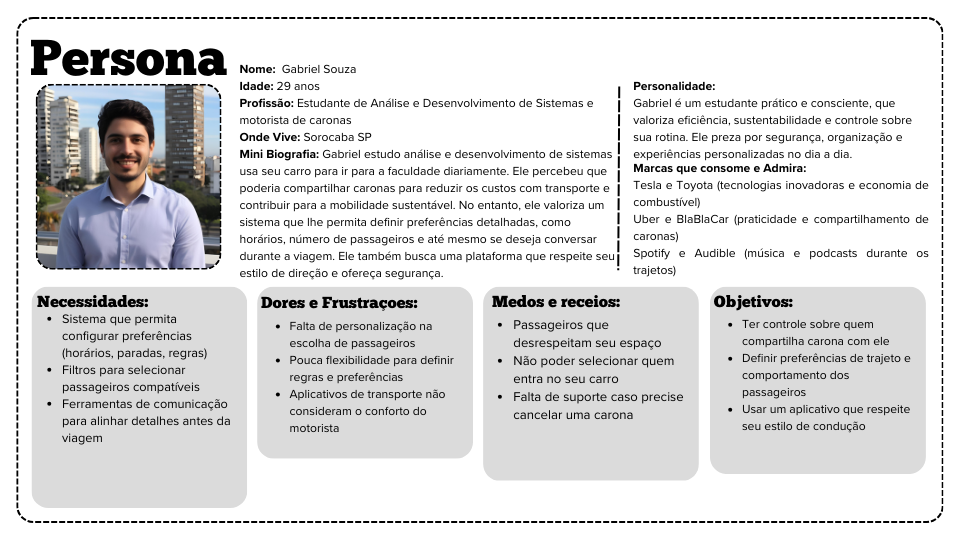
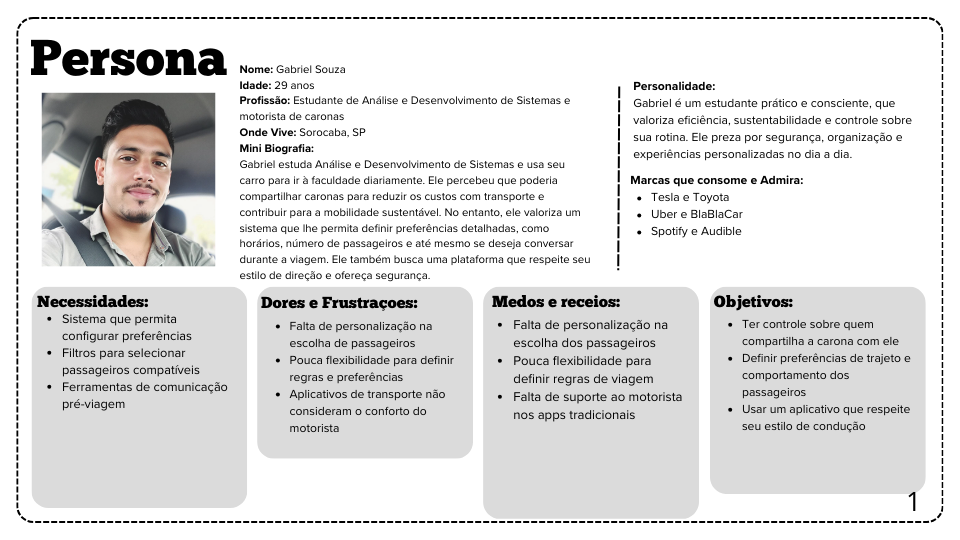
Update: Personas em Templates Coloquei as Personas criadas nos templates que o professor havia fornecido

diff --git a/Documentos/Personas-e-User-Stories.md b/Documentos/Personas-e-User-Stories.md
@@ -1,150 +1,9 @@
 # **Personas:**
 
-## 👤 Motorista 1: Gabriel Souza
-
-**Nome:** Gabriel Souza  
-**Idade:** 29 anos  
-**Profissão:** Estudante de Análise e Desenvolvimento de Sistemas e motorista de caronas  
-**Onde vive:** Sorocaba SP  
-
-**Mini biografia:**  
-Gabriel estuda Análise e Desenvolvimento de Sistemas e usa seu carro para ir à faculdade diariamente. Ele percebeu que poderia compartilhar caronas para reduzir os custos com transporte e contribuir para a mobilidade sustentável. No entanto, ele valoriza um sistema que lhe permita definir preferências detalhadas, como horários, número de passageiros e até mesmo se deseja conversar durante a viagem. Ele também busca uma plataforma que respeite seu estilo de direção e ofereça segurança.
-
-**Marcas que consome/admira:**  
-- Tesla e Toyota  
-- Uber e BlaBlaCar  
-- Spotify e Audible  
-
-**Expectativas não atendidas com as marcas:**  
-- Falta de personalização na escolha dos passageiros  
-- Pouca flexibilidade para definir regras de viagem  
-- Falta de suporte ao motorista nos apps tradicionais  
-
-**Medos e receios relacionados às marcas:**  
-- Passageiros que desrespeitam seu espaço  
-- Não poder selecionar quem entra no carro  
-- Falta de suporte caso precise cancelar uma carona  
-
-**Objetivos:**  
-- Ter controle sobre quem compartilha a carona com ele  
-- Definir preferências de trajeto e comportamento dos passageiros  
-- Usar um aplicativo que respeite seu estilo de condução  
-
-**Necessidades:**  
-- Sistema que permita configurar preferências  
-- Filtros para selecionar passageiros compatíveis  
-- Ferramentas de comunicação pré-viagem  
-
----
-
-## 👤 Motorista 2: Marina Oliveira
-
-**Nome:** Marina Oliveira  
-**Idade:** 26 anos  
-**Profissão:** Professora universitária e motorista de caronas  
-**Onde vive:** Sorocaba SP  
-
-**Mini biografia:**  
-Marina leciona em uma universidade e também utiliza o UniRide para oferecer caronas a estudantes, otimizando seus deslocamentos e promovendo um meio de transporte sustentável. Ela é simpática e comunicativa, mas preza pela organização. Acredita que um bom aplicativo de caronas deve oferecer segurança, permitir comunicação clara com os passageiros e evitar imprevistos por falta de alinhamento.
-
-**Marcas que consome/admira:**  
-- Uber e BlaBlaCar  
-- WhatsApp  
-- Google Agenda  
-
-**Expectativas não atendidas com as marcas:**  
-- Dificuldade em encontrar passageiros com trajetos compatíveis  
-- Falta de canais de comunicação antes da viagem  
-- Falta de um sistema que respeite as regras dos motoristas  
-
-**Medos e receios relacionados às marcas:**  
-- Passageiros que não comparecem  
-- Situações desconfortáveis por falta de alinhamento prévio  
-- Falta de suporte da plataforma em imprevistos  
-
-**Objetivos:**  
-- Encontrar passageiros confiáveis e organizados  
-- Ter liberdade para definir horários, rotas e regras  
-- Evitar estresse com passageiros imprevistos  
-
-**Necessidades:**  
-- Filtros para selecionar passageiros  
-- Canal de comunicação direto  
-- Suporte eficiente  
-
----
-
-## 👤 Passageiro 1: Lucas Martins
-
-**Nome:** Lucas Martins  
-**Idade:** 21 anos  
-**Profissão:** Estudante de Manutenção de Aeronaves 
-**Onde vive:** Sorocaba SP  
-
-**Mini biografia:**  
-Lucas é um estudante introvertido que depende de caronas para se deslocar até a faculdade. Ele busca viagens tranquilas, sem muita conversa, e valoriza o conforto. Acredita que a segurança deve ser prioridade e gosta de verificar se o motorista é confiável antes de aceitar uma corrida.
-
-**Marcas que consome/admira:**  
-- BlaBlaCar  
-- iFood  
-- Spotify  
-
-**Expectativas não atendidas com as marcas:**  
-- Falta de motoristas verificados  
-- Falta de controle sobre preferências de viagem  
-- Pouca personalização na escolha da carona  
-
-**Medos e receios relacionados às marcas:**  
-- Motoristas inseguros ou sem documentação  
-- Situações desconfortáveis durante a viagem  
-- Falta de informações claras sobre o motorista  
-
-**Objetivos:**  
-- Viajar com segurança e tranquilidade  
-- Definir preferências como silêncio e temperatura  
-- Receber notificações claras sobre a carona  
-
-**Necessidades:**  
-- Motoristas verificados com documentação  
-- Sistema de preferências personalizáveis  
-- Notificações de status da corrida  
-
----
-
-## 👤 Passageira 2: Juliana Ramos
-
-**Nome:** Juliana Ramos  
-**Idade:** 24 anos  
-**Profissão:** Estudante de Sistemas Biomédicos 
-**Onde vive:** Sorocaba SP  
-
-**Mini biografia:**  
-Juliana é comunicativa, gosta de conversar durante a viagem e costuma ouvir música. Para ela, o trajeto até a faculdade pode ser agradável se houver alinhamento entre motorista e passageiro. Preza por motoristas confiáveis, com boa avaliação e que respeitem suas preferências.
-
-**Marcas que consome/admira:**  
-- Spotify e Deezer  
-- Uber  
-- Instagram  
-
-**Expectativas não atendidas com as marcas:**  
-- Falta de motoristas verificados  
-- Dificuldade em encontrar caronas compatíveis  
-- Pouca transparência sobre o estilo do motorista  
-
-**Medos e receios relacionados às marcas:**  
-- Motoristas desrespeitosos  
-- Falta de rede de confiança  
-- Surpresas desagradáveis durante a viagem  
-
-**Objetivos:**  
-- Encontrar caronas seguras e descontraídas  
-- Ajustar preferências como temperatura e música  
-- Ver conexões em comum com os motoristas  
-
-**Necessidades:**  
-- Sistema de conexões (amigo do amigo)  
-- Motoristas avaliados e verificados  
-- Preferências ajustáveis  
+![Gabriel](../Assets/PERSONAS/gabriel.png)
+![lucas](../Assets/PERSONAS/lucas.png)
+![marina](../Assets/PERSONAS/marina.png)
+![juliana](../Assets/PERSONAS/juliana.png)
 
 # **Users Stories:**
 
